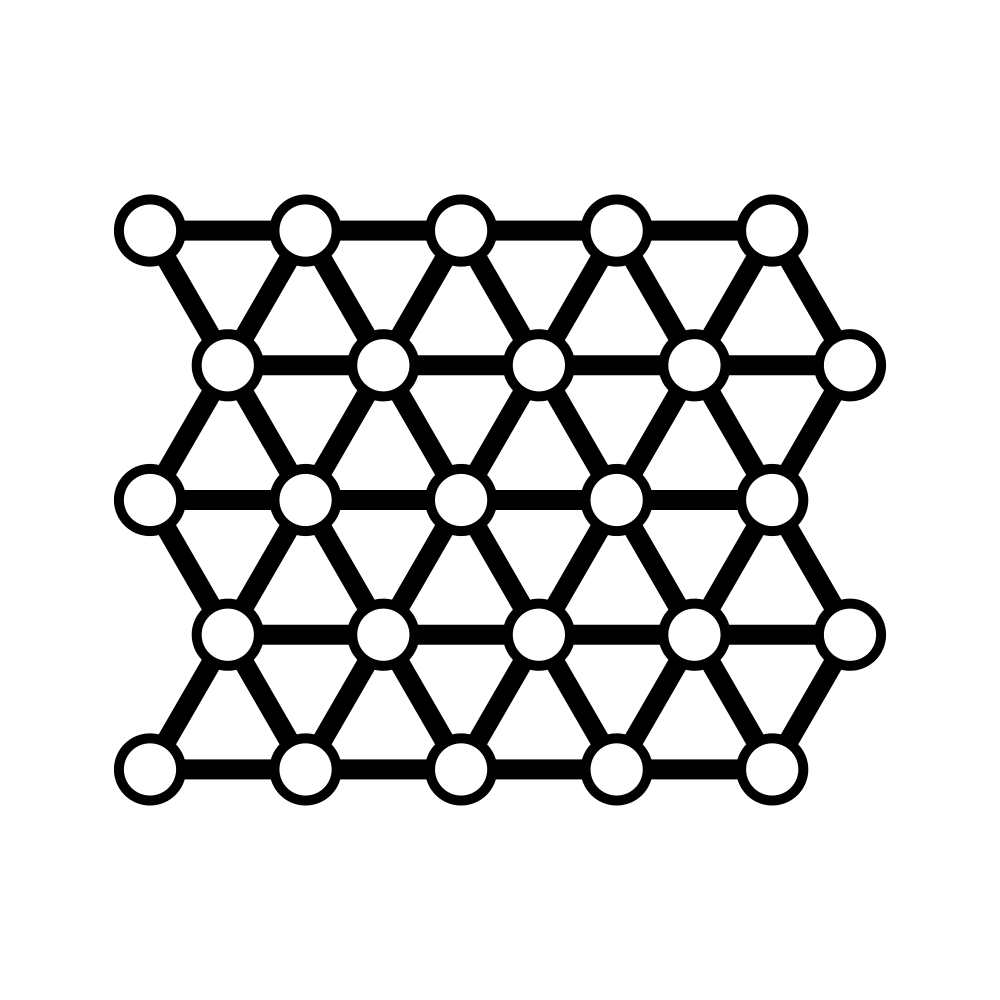
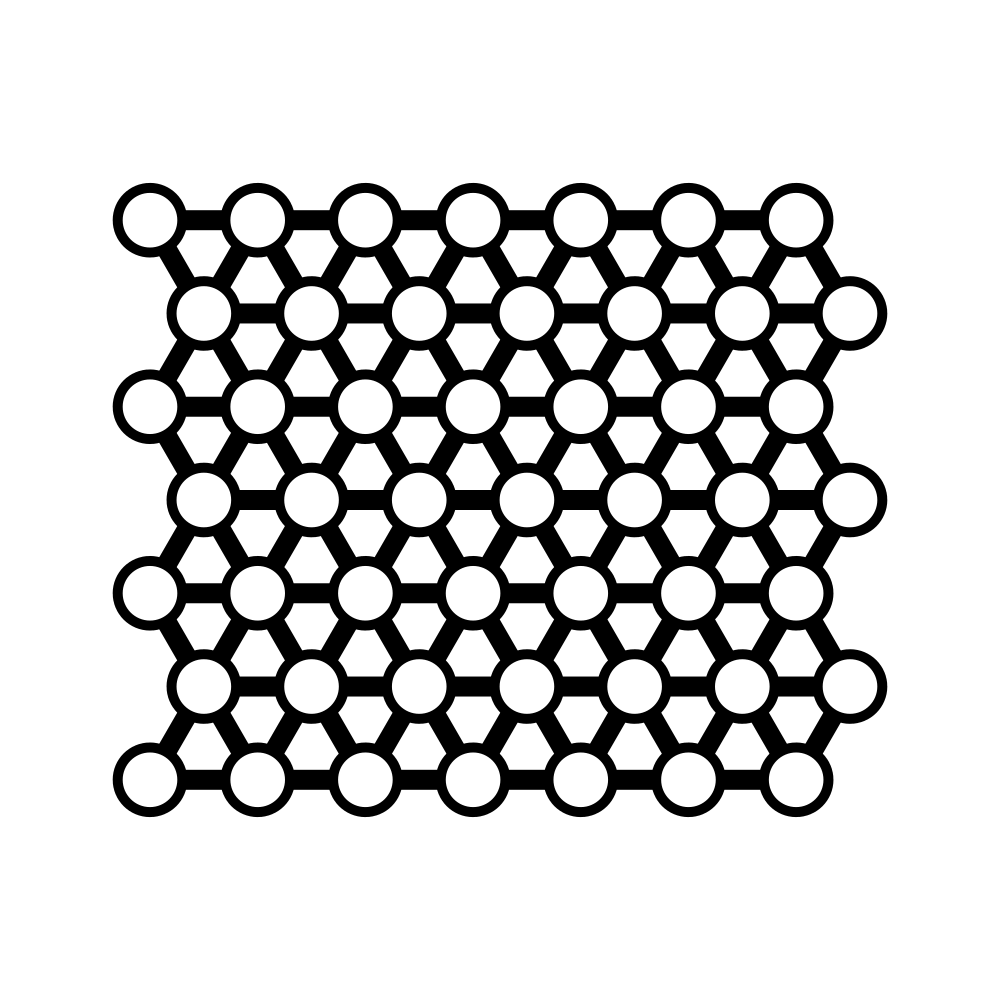
trying to create hexmesh

Changed region(s): [[0.093, 0.186, 0.899, 0.837]]

diff --git a/mesh.py b/mesh.py
@@ -97,6 +97,14 @@ class TriMesh(Mesh):
         super().__init__(nodes, links)
 
 
+class HexMesh(Mesh):
+    def __init__(self, grid: tuple[int, int]) -> None:
+        mesh = TriMesh(grid)
+        nodes = mesh.nodes
+        links = mesh.links
+        super().__init__(nodes, links)
+
+
 class Node:
     point: Vector
 

diff --git a/render.py b/render.py
@@ -1,10 +1,10 @@
 from math import tau
 import cairo
-from mesh import Mesh, QuadMesh, QuadCrossMesh, TriMesh
+from mesh import Mesh, QuadMesh, QuadCrossMesh, TriMesh, HexMesh
 from vectors import Vector
 
 
-mesh = TriMesh((4, 4))
+mesh = HexMesh((6, 6))
 mesh.translate(Vector(-0.5, -0.5))
 
 
